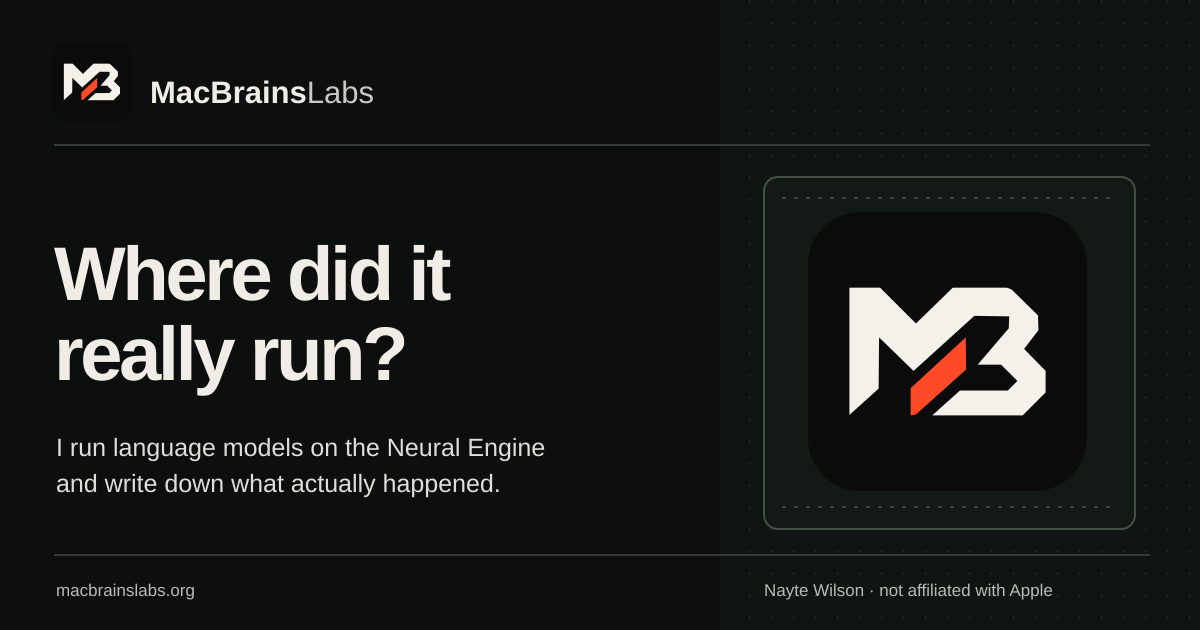
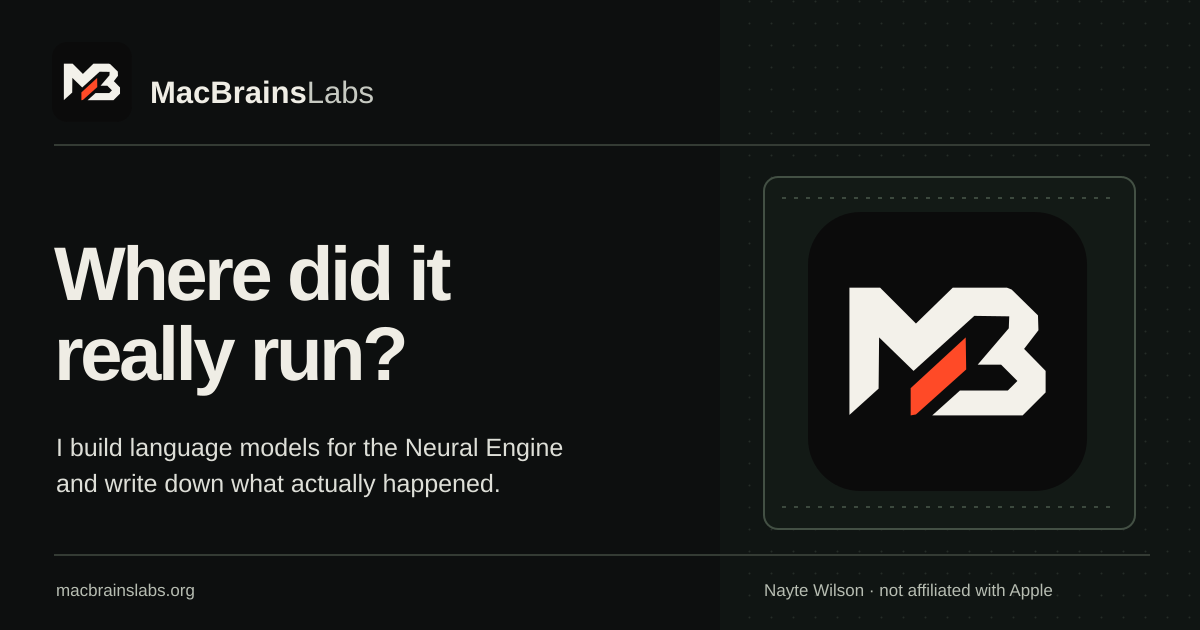
Homepage: never claim more than the evidence shows
Independent review caught three homepage lines that were stronger than
the site's own evidence:
- "I run language models on the Neural Engine" asserted execution the
  site only infers from compile plans; now "I build language models for
  the Neural Engine" (homepage and share card).
- "Mostly on the Neural Engine." read as residency; now "Mostly assigned
  to the Neural Engine."
- "I didn't check their output quality" contradicted the 3 July 2026
  perplexity check; the sweep limit now says the quality wasn't
  validated and states the unresolved 1000x logit finding.
The raw-output fragment no longer shows the run's scratch path; the
excerpt starts at the first counted line and the caption names the
model file. The explorer no longer leaves "See prefill_rerun..." as
dead text in a card.

Changed region(s): [[0.0617, 0.6937, 0.4625, 0.754]]

diff --git a/index.html b/index.html
@@ -78,7 +78,7 @@
 <section class="shell hero" aria-labelledby="hero-title">
 <div class="hero-copy">
 <h1 id="hero-title">Where did it really run?</h1>
-<p class="lede">I run language models on the Neural Engine in my MacBook and write down what actually happened.</p>
+<p class="lede">I build language models for the Neural Engine in my MacBook and write down what actually happened.</p>
 <p class="intro">Where the work ran, whether the numbers came out right, and what I still can’t prove. Every number here names the exact model build it was measured on, and the failures stay in.</p>
 <div class="hero-actions"><a class="button orange" href="#research">See what I found</a><a class="quiet-link" href="#method">How I work</a></div>
 <p class="intro-entry">New to the Neural Engine? <a href="/start/">Start with the one-minute guide</a></p>
@@ -101,7 +101,7 @@
 
 <article class="folio" id="placement" aria-labelledby="placement-h">
 <p class="topic">Where did it run? · Qwen2.5 1.5B, 28 layers, LUT4</p>
-<h3 id="placement-h">Mostly on the Neural Engine.</h3>
+<h3 id="placement-h">Mostly assigned to the Neural Engine.</h3>
 <p class="folio-intro">Before I say anything about the hardware, I check where the compiler actually put each operation.</p>
 <div class="placement-numbers"><div><strong>2,090</strong><span>operations assigned to the Neural Engine</span></div><div><strong>79</strong><span>operations assigned to the CPU</span></div></div>
 <figure class="ledger-figure">
@@ -138,7 +138,7 @@
 <p class="folio-intro">The measurements didn’t match my explanation, so the explanation had to go.</p>
 <div class="hypothesis"><p class="hyp-h">What I thought</p><p><s>A 57.3 tok/s ceiling set by memory bandwidth.</s></p><p class="hyp-h">What the measurements showed</p><p>Smaller weights didn’t speed it up. More work per dispatch did.</p></div>
 <div class="finding"><p class="finding-h">How I got it wrong</p><p>I got that ceiling by dividing a compiler planning figure by the size of the weight file. Then smaller LUT2 weights gave no matching speedup, and putting more work in each dispatch went right past the supposed limit. So I retracted it. At the full 28-layer production depth, per-layer compute takes up more of each step than the fixed cost of a dispatch.</p></div>
-<div class="limit"><p class="limit-h">What it doesn’t prove</p><p>The batch sweep timed probe builds, and I didn’t check their output quality. A speed result also only holds for its own device, build and run conditions. Not for every model or workload.</p></div>
+<div class="limit"><p class="limit-h">What it doesn’t prove</p><p>The batch sweep timed probe builds whose output quality wasn’t validated. A later perplexity check on the B=4 probe found its logits roughly 1000 times larger than the B=1 model’s, and the records don’t resolve that. A speed result also only holds for its own device, build and run conditions. Not for every model or workload.</p></div>
 <a class="source-link" href="/notes/decode-regimes/">Read the measurement notes</a>
 </article>
 
@@ -148,8 +148,7 @@
 
 <section class="method-section shell" id="method" aria-labelledby="method-title">
 <div class="section-heading"><h2 id="method-title">How I work</h2><p>I keep what I built, what I saw and what I think it means in separate piles.</p>
-<figure class="fragment fragment-dark" data-ui><div class="fragment-bar">Raw output, rerun on 30 October 2026</div><pre><code>model: /tmp/e001-june/qwen25_monolithic_full_lut4.mlmodelc  function: infer
-total ops: 6411
+<figure class="fragment fragment-dark" data-ui><div class="fragment-bar">Raw output excerpt, rerun on 30 October 2026</div><pre><code>total ops: 6411
   none   4242  (66.2%)
   ANE   2090  (32.6%)
   CPU     79  (1.2%)
@@ -157,7 +156,7 @@ total ops: 6411
 === assigned-compute ops only (ANE+CPU+GPU = 2169) ===
   ANE  2090  (96.4% of compute)
   CPU    79  (3.6% of compute)
-  GPU     0  (0.0% of compute)</code></pre><figcaption>What my compute-plan tool printed for the June build. The 4242 “none” entries are 4028 constants, 213 <code>constexpr_lut_to_dense</code> weight expansions and 1 identity, so none of them gets a device. <a href="/evidence/qwen-placement/june_artifact_rerun_2026-10-30.txt">The whole file</a></figcaption></figure></div>
+  GPU     0  (0.0% of compute)</code></pre><figcaption>What my compute-plan tool printed for the June build of <code>qwen25_monolithic_full_lut4.mlmodelc</code>, <code>infer</code> function. The 4242 “none” entries are 4028 constants, 213 <code>constexpr_lut_to_dense</code> weight expansions and 1 identity, so none of them gets a device. <a href="/evidence/qwen-placement/june_artifact_rerun_2026-10-30.txt">The whole file</a></figcaption></figure></div>
 <div class="method-list">
 <details open><summary>Build the real thing <i aria-hidden="true">+</i></summary><div><p>I start from the actual program and how it gets compiled. Native Swift, MIL I write by hand, and Apple’s public Core ML tools. That keeps every boundary out in the open. No entitlement bypasses and no private kernel access.</p><a href="/methods/#stack">The build stack</a></div></details>
 <details><summary>Count every operation <i aria-hidden="true">+</i></summary><div><p>I go through state reads and writes, projections, norms and the output tail. What the compiler says it planned stays separate from any evidence of what actually ran.</p><a href="/notes/qwen-lut4/">The placement audit</a></div></details>

diff --git a/research/explore/index.html b/research/explore/index.html
@@ -93,11 +93,11 @@
 <p class="evidence-limit">The 79 CPU operations are the lm_head argmax tail. By assigned operations, that’s 96.4% ANE and 3.6% CPU.</p>
 <a class="evidence-link" href="/research/#measurements">Public research summary <span aria-hidden="true">↗</span></a>
 </article>
-<article class="evidence-card" data-kind="planner" data-search="qwen2.5-1.5b / kv state path ane-assigned state primitives 394 / 394 june infer function: 56 slice_update, 57 read_state, 56 write_state and 225 slice_by_index, all on ane. in the shipped prefill function, one read_state is assigned to the cpu (56 ane / 1 cpu). see prefill_rerun_2026-10-30.txt. public research summary qwen2.5">
+<article class="evidence-card" data-kind="planner" data-search="qwen2.5-1.5b / kv state path ane-assigned state primitives 394 / 394 june infer function: 56 slice_update, 57 read_state, 56 write_state and 225 slice_by_index, all on ane. in the shipped prefill function, one read_state is assigned to the cpu (56 ane / 1 cpu). public research summary qwen2.5">
 <div class="evidence-meta"><span class="evidence-type evidence-type-planner">Planner reported</span><span>Qwen2.5</span></div>
 <h3>Qwen2.5-1.5B / KV state path</h3>
 <p class="evidence-observation">ANE-assigned state primitives<span class="evidence-value">394 / 394</span></p>
-<p class="evidence-limit">June infer function: 56 slice_update, 57 read_state, 56 write_state and 225 slice_by_index, all on ANE. In the shipped prefill function, one read_state is assigned to the CPU (56 ANE / 1 CPU). See prefill_rerun_2026-10-30.txt.</p>
+<p class="evidence-limit">June infer function: 56 slice_update, 57 read_state, 56 write_state and 225 slice_by_index, all on ANE. In the shipped prefill function, one read_state is assigned to the CPU (56 ANE / 1 CPU).</p>
 <a class="evidence-link" href="/research/#measurements">Public research summary <span aria-hidden="true">↗</span></a>
 </article>
 <article class="evidence-card" data-kind="measured" data-search="qwen2.5 / decode batch sweep aggregate tokens per second 102.1 at b=4 five-round, interleaved, steady-state run on a single-function, batch-shaped probe. throughput only. output quality wasn’t validated. a later perplexity check on the b=4 probe, dated 3 july 2026, found its output logits roughly 1000 times larger than the b=1 model’s. the repository’s current records don’t resolve that (n/003). public research summary qwen2.5">
